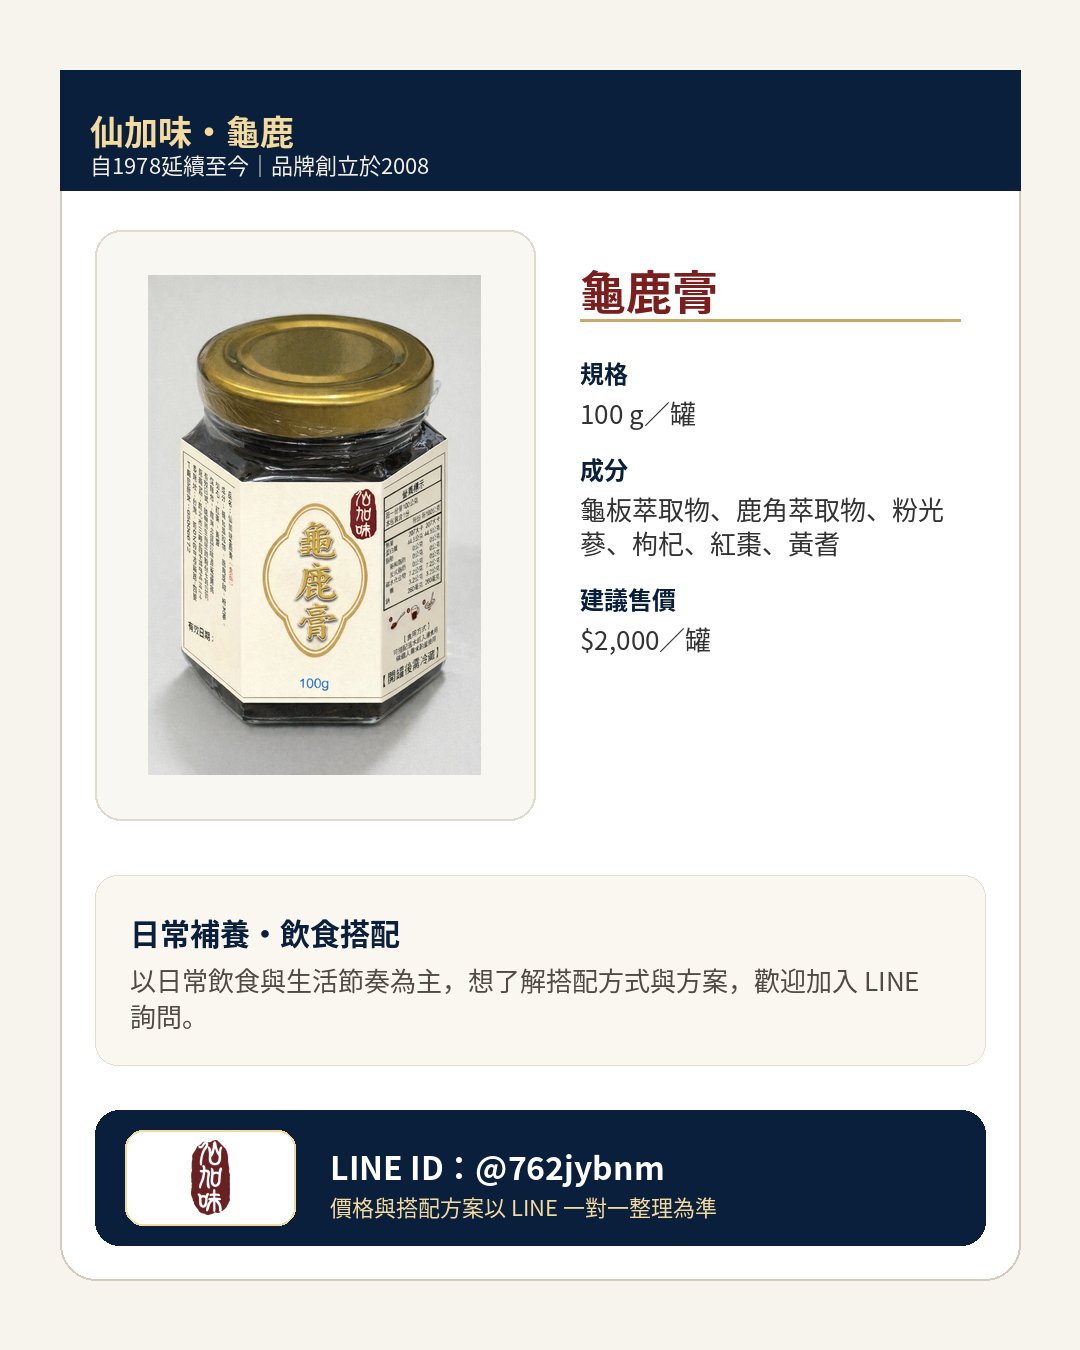
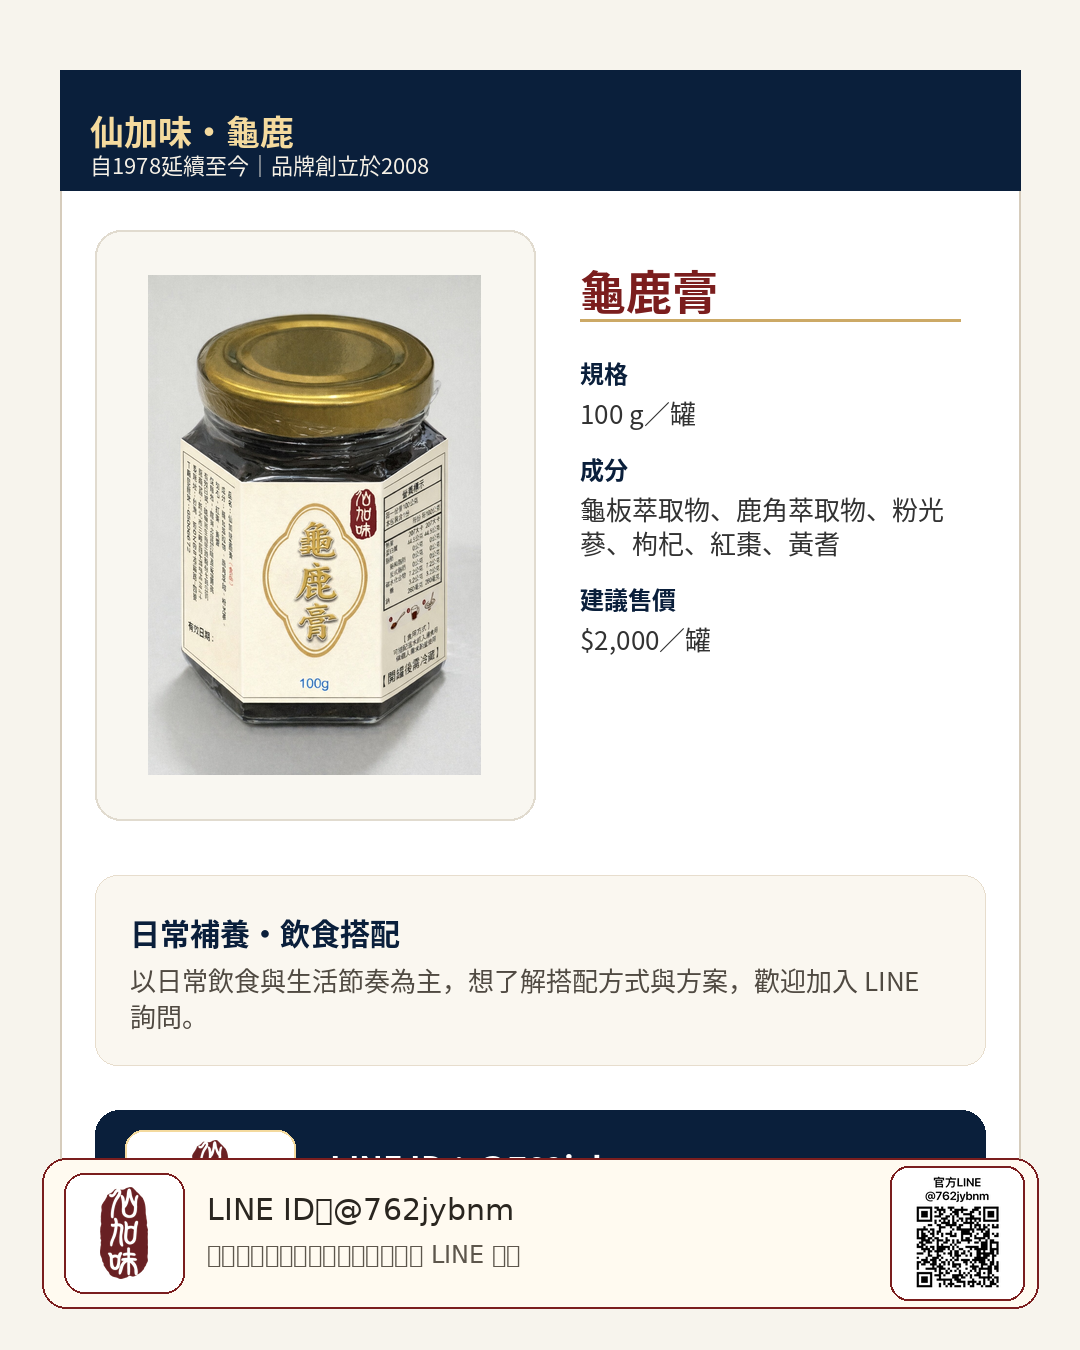
Add files via upload

Changed region(s): [[0.0306, 0.84, 0.9778, 0.9644]]

diff --git a/contact.html b/contact.html
@@ -5,7 +5,7 @@
   <meta name="viewport" content="width=device-width, initial-scale=1.0">
   <title>聯絡與門市｜仙加味</title>
   <meta name="description" content="仙加味官方 LINE 與萬華門市資訊，地址：台北市萬華區西昌街52號，提供付款與配送方式整理。">
-  <link rel="stylesheet" href="site.css?v=77.1">
+  <link rel="stylesheet" href="site.css?v=77.2">
 
   <link rel="canonical" href="https://ts15825868.github.io/xianjiawei/contact.html">
   <meta property="og:locale" content="zh_TW">
@@ -48,10 +48,16 @@
           <ul id="contact-ask-list" class="list"></ul>
         </article>
 
-        <article class="card reveal">
+        <article class="card reveal contact-line-card">
           <h2>官方 LINE</h2>
-          <p>LINE ID：<strong data-line-id>@762jybnm</strong></p>
-          <p>建議直接加入後留言想了解的產品、型態或搭配方式，我們會依情況回覆。</p>
+          <div class="contact-line-layout">
+            <div>
+              <p>LINE ID：<strong data-line-id>@762jybnm</strong></p>
+              <p>建議直接加入後留言想了解的產品、型態或搭配方式，我們會依情況回覆。</p>
+              <a class="btn btn-line" data-line-url data-line-message="我想看龜鹿怎麼選，幫我整理一個方向。" href="https://lin.ee/sHZW7NkR" target="_blank" rel="noopener">LINE 幫我看適合哪個</a>
+            </div>
+            <img class="line-qr-card" src="images/line-qr.jpg" alt="仙加味官方 LINE QR Code">
+          </div>
         </article>
 
         <article class="card reveal">
@@ -75,6 +81,6 @@
   <div id="site-footer" class="site-footer"></div>
   <div id="site-modal"></div>
 
-  <script src="site.js?v=77.1"></script>
+  <script src="site.js?v=77.2"></script>
 </body>
 </html>

diff --git a/site.js b/site.js
@@ -110,8 +110,13 @@ function renderFooter() {
         <p>把龜鹿放回日常飲食與生活安排裡。</p>
       </div>
       <div>
-        <p>官方 LINE：${getLineId()}</p>
-        <p>${lineButton('LINE 幫我看適合哪個', '我想看龜鹿怎麼選，幫我整理一個方向。')}</p>
+        <div class="footer-line-box">
+          <div>
+            <p>官方 LINE：${getLineId()}</p>
+            <p>${lineButton('LINE 幫我看適合哪個', '我想看龜鹿怎麼選，幫我整理一個方向。')}</p>
+          </div>
+          <img class="line-qr-small" src="images/line-qr.jpg" alt="仙加味官方 LINE QR Code">
+        </div>
         <p>${SITE_DATA?.heritage?.footer || `SINCE 1978｜仙加味品牌 Founded 2008`}</p>
       </div>
     </div>
@@ -528,6 +533,21 @@ function fillProducts(targetId, products) {
   });
 }
 
+function renderSpecOptions(p) {
+  if (!p.specOptions || !p.specOptions.length) return '';
+  return `
+    <div class="modal-section spec-options">
+      <h3>規格選擇</h3>
+      ${p.specOptions.map(opt => `
+        <div class="spec-option-card">
+          <strong>${opt.title}</strong>
+          <ul>${(opt.lines || []).map(line => `<li>${line}</li>`).join('')}</ul>
+        </div>
+      `).join('')}
+    </div>
+  `;
+}
+
 function openProductModal(p, sourceEl) {
   const modal = document.getElementById('product-modal');
   const body = document.getElementById('product-modal-body');
@@ -550,6 +570,7 @@ function openProductModal(p, sourceEl) {
         <h2>${p.displayName || p.name}</h2>
         <p>${p.description}</p>
         <p class="muted">規格：${p.size}</p>
+        ${renderSpecOptions(p)}
 
         <div class="modal-section">
           <h3>成分</h3>

diff --git a/site.css b/site.css
@@ -620,3 +620,57 @@ p{margin:0 0 12px}
   background:#8E2A2A !important;
   box-shadow:none !important;
 }
+
+
+/* v77.2 LINE QR 與傳統紅盒規格卡 */
+.footer-line-box,
+.contact-line-layout{
+  display:flex;
+  align-items:center;
+  justify-content:space-between;
+  gap:18px;
+  flex-wrap:wrap;
+}
+.line-qr-small{
+  width:88px;
+  height:88px;
+  object-fit:cover;
+  background:#fff;
+  border:1px solid rgba(123,30,30,.18);
+  border-radius:14px;
+  padding:6px;
+}
+.line-qr-card{
+  width:132px;
+  height:132px;
+  object-fit:cover;
+  background:#fff;
+  border:1px solid rgba(123,30,30,.18);
+  border-radius:18px;
+  padding:8px;
+  box-shadow:0 8px 18px rgba(0,0,0,.06);
+}
+.spec-options{
+  border-top:1px solid rgba(0,0,0,.08);
+  padding-top:16px;
+}
+.spec-option-card{
+  background:#fbf8f0;
+  border:1px solid rgba(123,30,30,.12);
+  border-radius:16px;
+  padding:14px 16px;
+  margin-top:10px;
+}
+.spec-option-card strong{
+  color:#7B1E1E;
+  display:block;
+  margin-bottom:6px;
+}
+.spec-option-card ul{
+  margin:0;
+  padding-left:18px;
+}
+@media (max-width:640px){
+  .line-qr-small{width:76px;height:76px;}
+  .line-qr-card{width:118px;height:118px;}
+}

diff --git a/index.html b/index.html
@@ -5,7 +5,7 @@
   <meta name="viewport" content="width=device-width, initial-scale=1.0">
   <title>仙加味｜萬華龜鹿品牌・補養是一種節奏</title>
   <meta name="description" content="仙加味・龜鹿從萬華出發，整理龜鹿膏、龜鹿飲、龜鹿湯塊、鹿茸粉與日常料理搭配，價格與搭配建議由 LINE 一對一回覆。">
-  <link rel="stylesheet" href="site.css?v=77.1">
+  <link rel="stylesheet" href="site.css?v=77.2">
   <link rel="canonical" href="https://ts15825868.github.io/xianjiawei/index.html">
   <meta property="og:locale" content="zh_TW">
   <meta property="og:type" content="website">
@@ -131,6 +131,6 @@
   <div id="site-footer" class="site-footer"></div>
   <div id="site-modal"></div>
 
-  <script src="site.js?v=77.1"></script>
+  <script src="site.js?v=77.2"></script>
 </body>
 </html>

diff --git a/dm.html b/dm.html
@@ -5,7 +5,7 @@
   <meta name="viewport" content="width=device-width, initial-scale=1.0">
   <title>產品整理｜仙加味・龜鹿</title>
   <meta name="description" content="仙加味・龜鹿產品整理，包含龜鹿膏、龜鹿飲、龜鹿湯塊與鹿茸粉，協助理解不同型態與日常使用方式。">
-  <link rel="stylesheet" href="site.css?v=77.1">
+  <link rel="stylesheet" href="site.css?v=77.2">
   <link rel="canonical" href="https://ts15825868.github.io/xianjiawei/dm.html">
 </head>
 <body data-page="dm">
@@ -29,6 +29,6 @@
   </main>
   <div id="site-footer" class="site-footer"></div>
   <div id="site-modal"></div>
-  <script src="site.js?v=77.1"></script>
+  <script src="site.js?v=77.2"></script>
 </body>
 </html>

diff --git a/products.html b/products.html
@@ -5,7 +5,7 @@
   <meta name="viewport" content="width=device-width, initial-scale=1.0">
   <title>龜鹿系列｜仙加味</title>
   <meta name="description" content="認識仙加味龜鹿系列：龜鹿膏、龜鹿飲、龜鹿湯塊、鹿茸粉，從型態、成分、使用方式理解差異。">
-  <link rel="stylesheet" href="site.css?v=77.1">
+  <link rel="stylesheet" href="site.css?v=77.2">
 
   <link rel="canonical" href="https://ts15825868.github.io/xianjiawei/products.html">
   <meta property="og:locale" content="zh_TW">
@@ -49,6 +49,6 @@
   <div id="site-footer" class="site-footer"></div>
   <div id="site-modal"></div>
 
-  <script src="site.js?v=77.1"></script>
+  <script src="site.js?v=77.2"></script>
 </body>
 </html>

diff --git a/combo.html b/combo.html
@@ -5,7 +5,7 @@
   <meta name="viewport" content="width=device-width, initial-scale=1.0">
   <title>套餐搭配｜仙加味</title>
   <meta name="description" content="仙加味龜鹿系列搭配方向整理，依日常節奏、便利需求與餐桌料理情境選擇，價格請洽官方 LINE。">
-  <link rel="stylesheet" href="site.css?v=77.1">
+  <link rel="stylesheet" href="site.css?v=77.2">
 
   <link rel="canonical" href="https://ts15825868.github.io/xianjiawei/combo.html">
   <meta property="og:locale" content="zh_TW">
@@ -43,6 +43,6 @@
   <div id="site-footer" class="site-footer"></div>
   <div id="site-modal"></div>
 
-  <script src="site.js?v=77.1"></script>
+  <script src="site.js?v=77.2"></script>
 </body>
 </html>

diff --git a/choose.html b/choose.html
@@ -5,7 +5,7 @@
   <meta name="viewport" content="width=device-width, initial-scale=1.0">
   <title>怎麼選龜鹿｜仙加味</title>
   <meta name="description" content="依固定節奏、方便快速、料理搭配與自己調飲四種生活方式，整理仙加味龜鹿系列挑選方向。">
-  <link rel="stylesheet" href="site.css?v=77.1">
+  <link rel="stylesheet" href="site.css?v=77.2">
 
   <link rel="canonical" href="https://ts15825868.github.io/xianjiawei/choose.html">
   <meta property="og:locale" content="zh_TW">
@@ -40,6 +40,6 @@
   <div id="site-footer" class="site-footer"></div>
   <div id="site-modal"></div>
 
-  <script src="site.js?v=77.1"></script>
+  <script src="site.js?v=77.2"></script>
 </body>
 </html>

diff --git a/guide.html b/guide.html
@@ -5,7 +5,7 @@
   <meta name="viewport" content="width=device-width, initial-scale=1.0">
   <title>怎麼使用｜仙加味</title>
   <meta name="description" content="仙加味龜鹿系列使用指南，整理龜鹿膏、龜鹿飲、龜鹿湯塊、鹿茸粉的日常安排方式。">
-  <link rel="stylesheet" href="site.css?v=77.1">
+  <link rel="stylesheet" href="site.css?v=77.2">
 
   <link rel="canonical" href="https://ts15825868.github.io/xianjiawei/guide.html">
   <meta property="og:locale" content="zh_TW">
@@ -46,6 +46,6 @@
   <div id="site-footer" class="site-footer"></div>
   <div id="site-modal"></div>
 
-  <script src="site.js?v=77.1"></script>
+  <script src="site.js?v=77.2"></script>
 </body>
 </html>

diff --git a/brand.html b/brand.html
@@ -5,7 +5,7 @@
   <meta name="viewport" content="width=device-width, initial-scale=1.0">
   <title>品牌故事｜仙加味</title>
   <meta name="description" content="仙加味從萬華開始，延續四代鹿角工序與龜鹿熬製經驗，把補養整理成日常節奏。">
-  <link rel="stylesheet" href="site.css?v=77.1">
+  <link rel="stylesheet" href="site.css?v=77.2">
 
   <link rel="canonical" href="https://ts15825868.github.io/xianjiawei/brand.html">
   <meta property="og:locale" content="zh_TW">
@@ -55,6 +55,6 @@
   <div id="site-footer" class="site-footer"></div>
   <div id="site-modal"></div>
 
-  <script src="site.js?v=77.1"></script>
+  <script src="site.js?v=77.2"></script>
 </body>
 </html>

diff --git a/faq.html b/faq.html
@@ -5,7 +5,7 @@
   <meta name="viewport" content="width=device-width, initial-scale=1.0">
   <title>FAQ 常見問題｜仙加味</title>
   <meta name="description" content="仙加味龜鹿系列常見問題，包含怎麼挑、怎麼用、保存、付款配送與門市資訊。">
-  <link rel="stylesheet" href="site.css?v=77.1">
+  <link rel="stylesheet" href="site.css?v=77.2">
 
   <link rel="canonical" href="https://ts15825868.github.io/xianjiawei/faq.html">
   <meta property="og:locale" content="zh_TW">
@@ -37,6 +37,6 @@
   <div id="site-footer" class="site-footer"></div>
   <div id="site-modal"></div>
 
-  <script src="site.js?v=77.1"></script>
+  <script src="site.js?v=77.2"></script>
 </body>
 </html>

diff --git a/knowledge.html b/knowledge.html
@@ -5,7 +5,7 @@
   <meta name="viewport" content="width=device-width, initial-scale=1.0">
   <title>食材與日常觀點｜仙加味</title>
   <meta name="description" content="從龜板萃取物、鹿角萃取物、工序與餐桌搭配理解仙加味龜鹿系列。">
-  <link rel="stylesheet" href="site.css?v=77.1">
+  <link rel="stylesheet" href="site.css?v=77.2">
 
   <link rel="canonical" href="https://ts15825868.github.io/xianjiawei/knowledge.html">
   <meta property="og:locale" content="zh_TW">
@@ -35,6 +35,6 @@
 
   <div id="site-footer" class="site-footer"></div>
   <div id="site-modal"></div>
-  <script src="site.js?v=77.1"></script>
+  <script src="site.js?v=77.2"></script>
 </body>
 </html>
